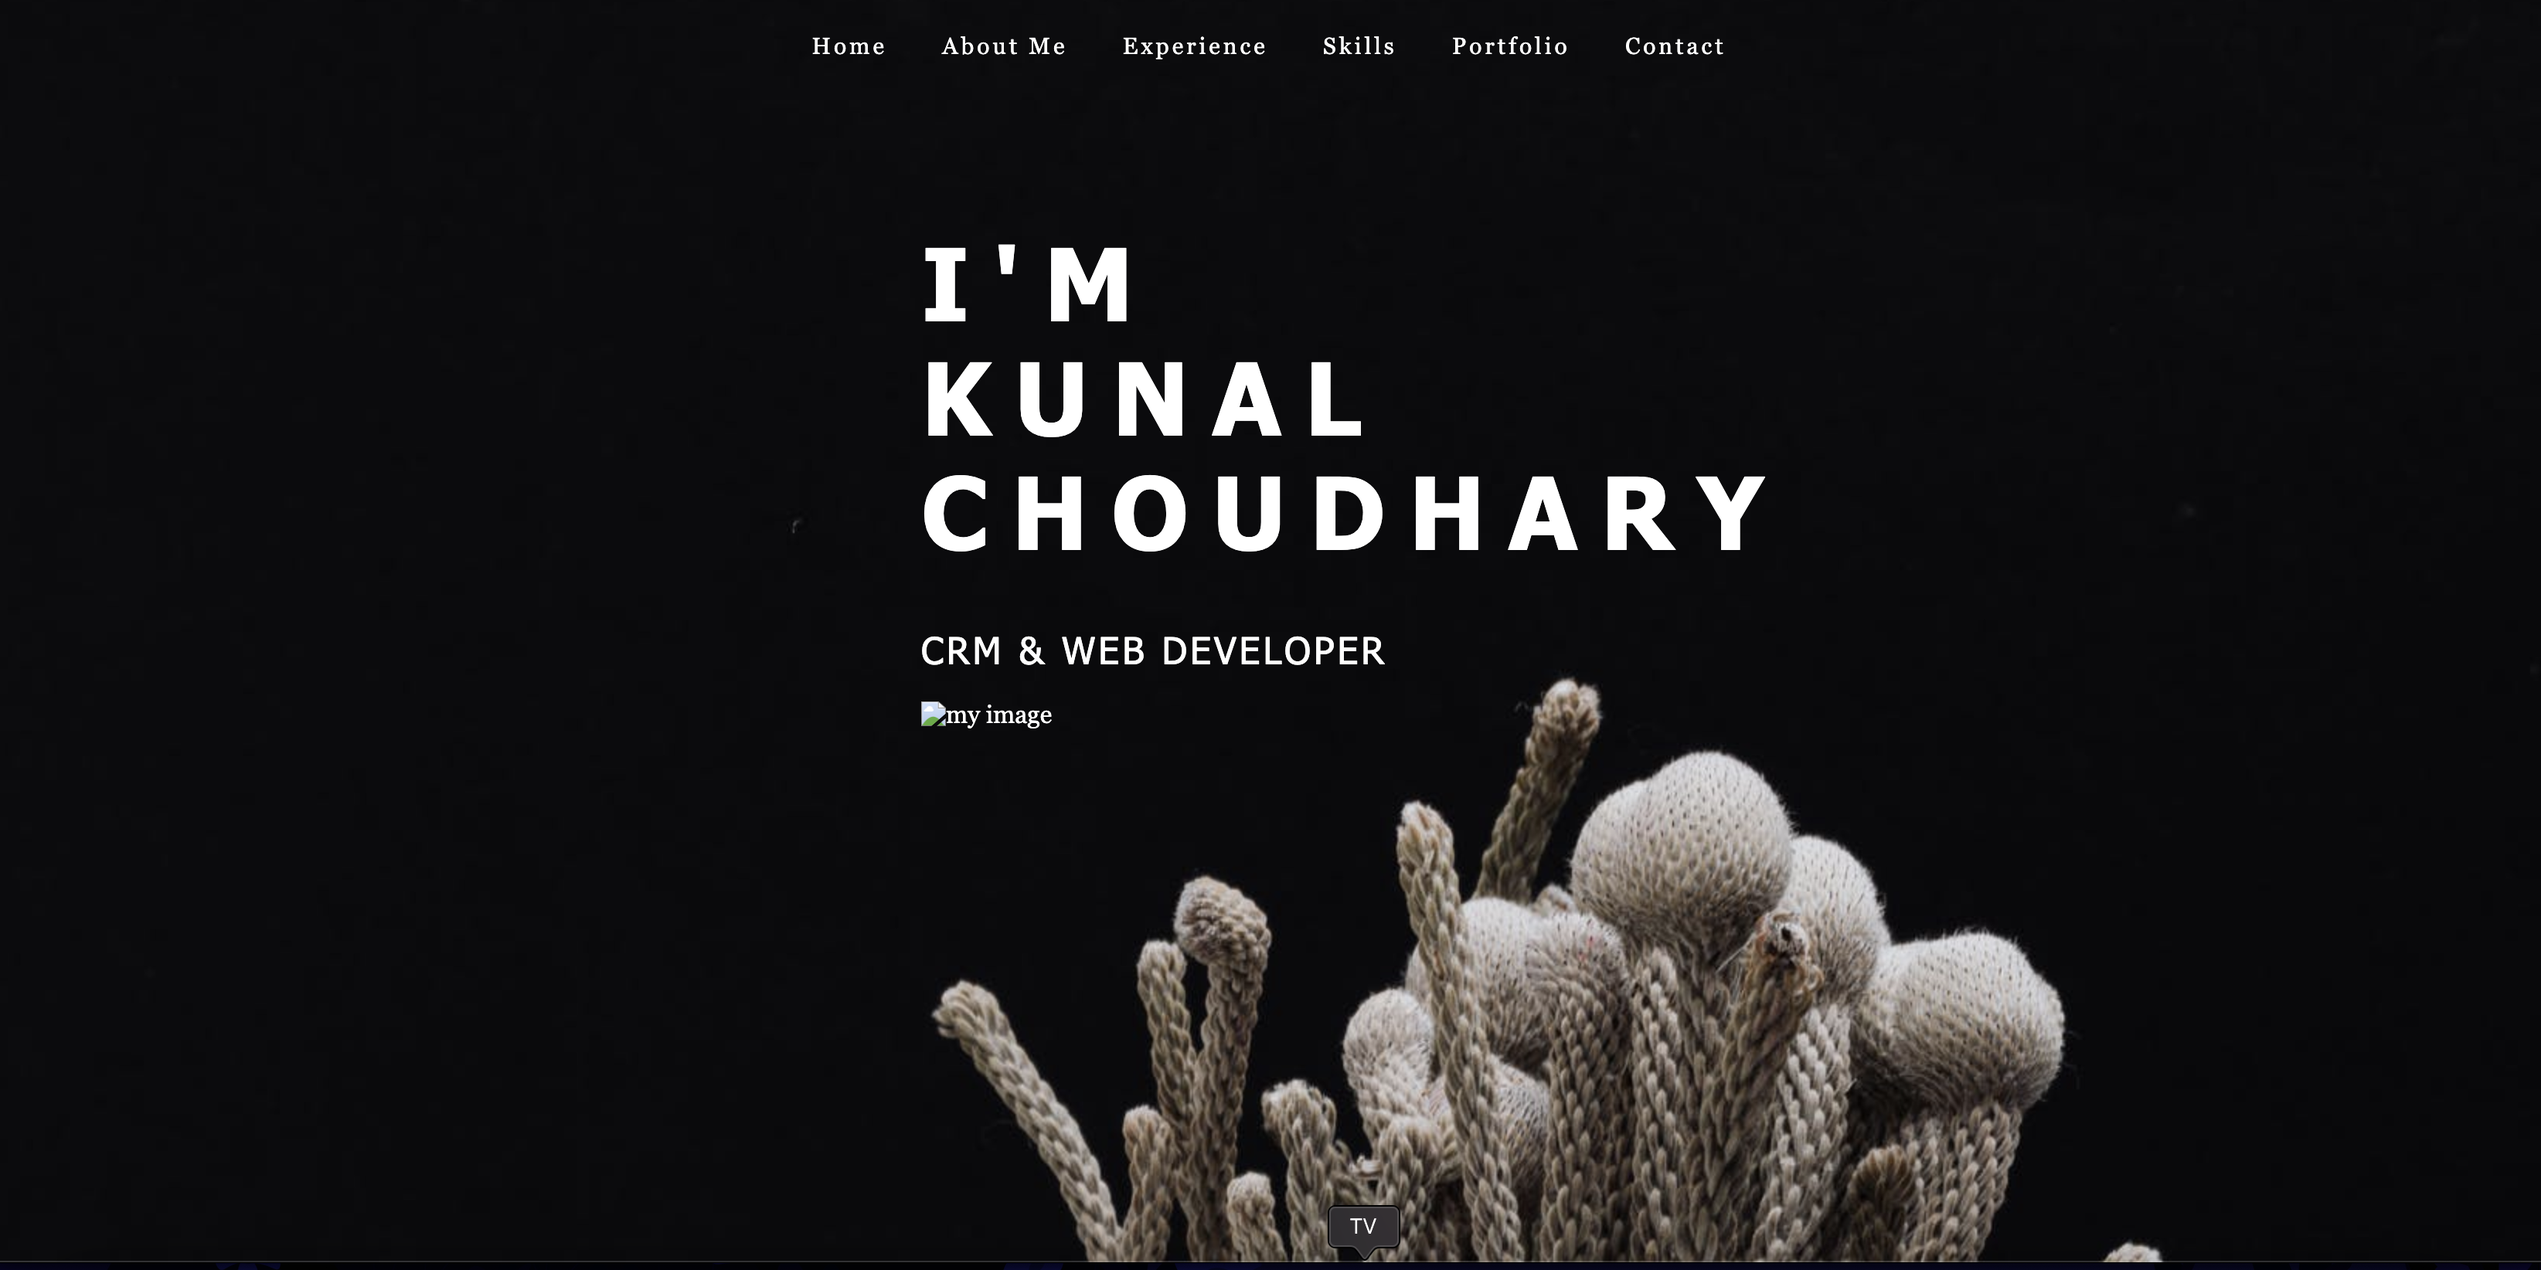
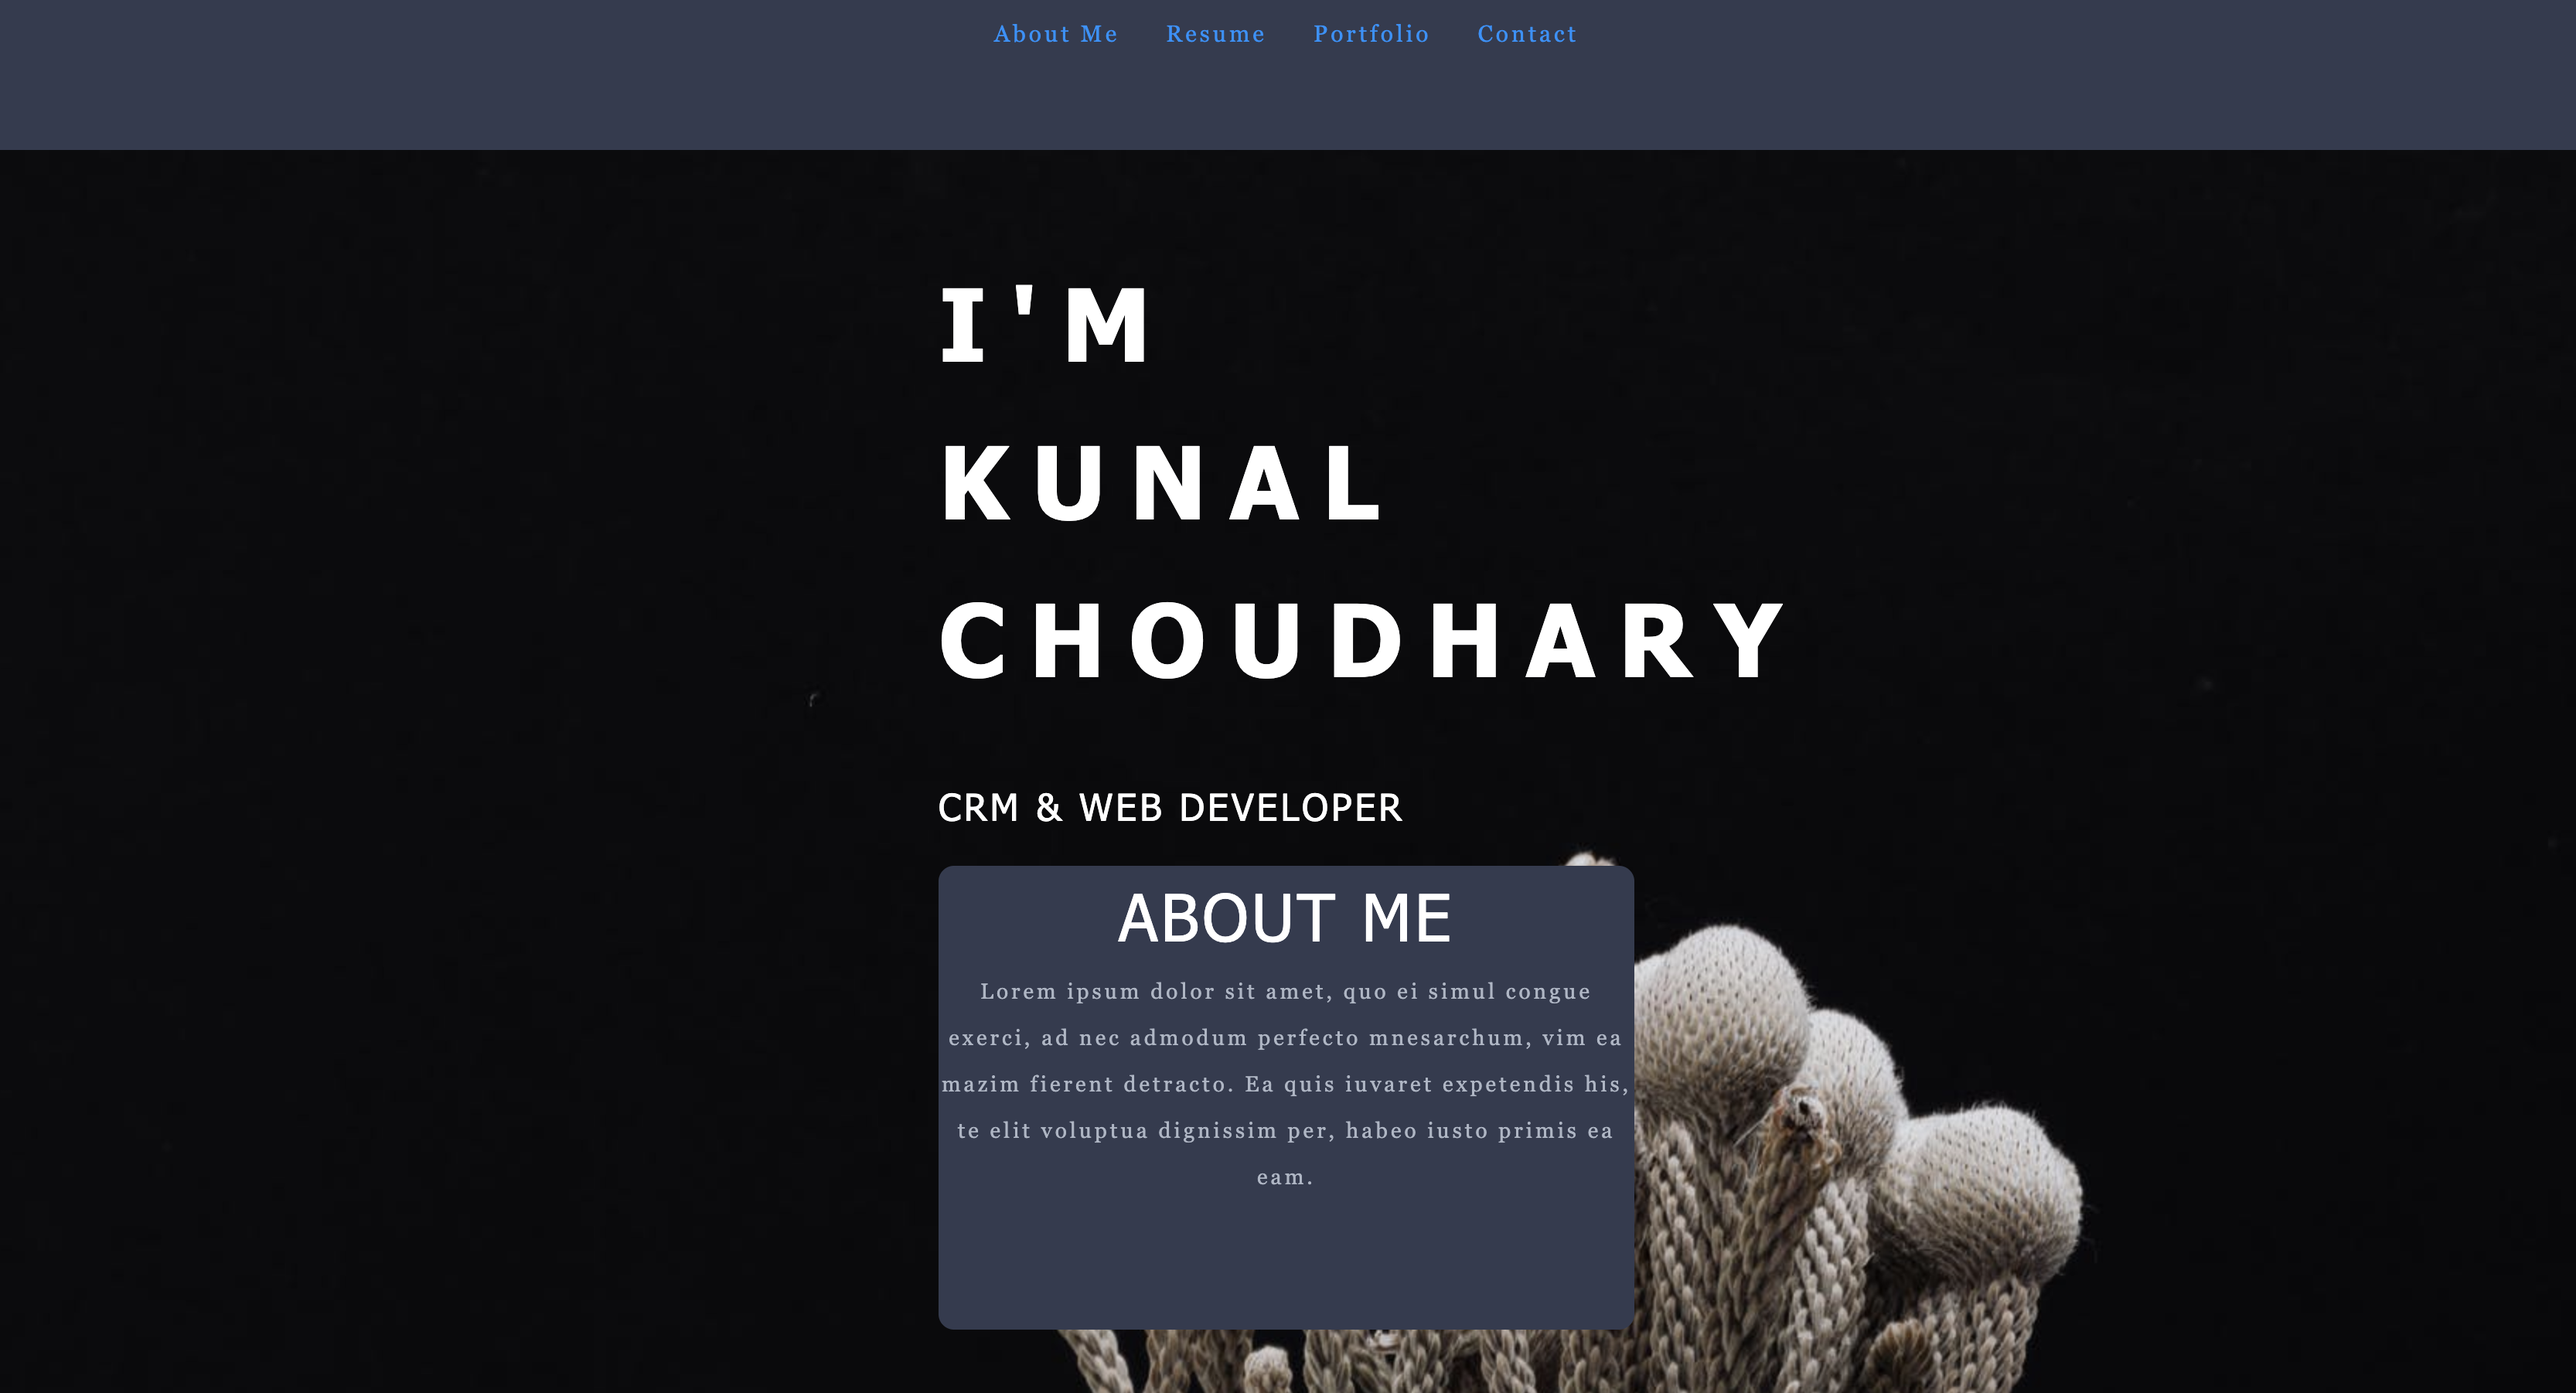
updated read me

diff --git a/README.md b/README.md
@@ -1,1 +1,12 @@
-# Getting Started with Create React App
+# React Portfolio
+
+This is my resume website
+
+
+![Alt text](assets/images/s1.png?raw=true "Screenshot 1")
+![Alt text](assets/images/s2.png?raw=true "Screenshot 2")
+![Alt text](assets/images/s3.png?raw=true "Screenshot 3")
+![Alt text](assets/images/s4.png?raw=true "Screenshot 4")
+
+Available at
+http://whispering-tundra-24245.herokuapp.com/contact
